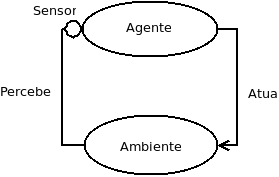
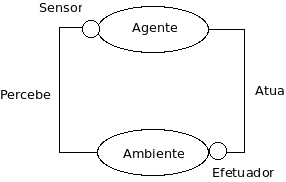
Finalizando correção do capítulo 4. Terminada todas as correções do doct.

diff --git a/latex/capitulos/capitulo2.tex b/latex/capitulos/capitulo2.tex
@@ -48,7 +48,7 @@ Este capítulo visa introduzir o conceito de sistemas multiagentes (SMA). Para t
 
 \subsection{Inteligência artificial}
 
-De acordo com~\cite{poole98} identificamos que a definição de IA pode variar em duas dimensões principais. Usando a definição de sistemas computacionais que agem racionalmente temos:
+A definição de IA pode variar em duas dimensões principais~\cite{poole98}. Usando a definição de sistemas computacionais que agem racionalmente temos:
 
 \begin{quote}
 \emph{Computational Intelligence is the study of the design of intelligent agents.}
@@ -64,7 +64,7 @@ Atualmente várias aplicações podem exigir demais de~\emph{hardwares} mais mod
 
 De acordo com~\cite{novig95}, agentes são entidades (reais ou virtuais) que funcionam de forma autônoma em um ambiente, ou seja, não necessitam de intervenção humana para realizar processamento. Esse ambiente de funcionamento do agente geralmente contém vários outros agentes e é possível a comunicação entre eles através do ambiente por meio de troca de mensagens.
 
-Em geral o funcionamento de agentes acontece de forma a perceberem o ambiente em que estão por meio de sensores, fazem análises com base nessa interação inicial e por fim podem agir sobre o ambiente de forma a modifica-lo por meio de efetuadores. A figura~\ref{fig:agente-basico} é uma ilustração do que foi dito.
+Na representação do funcionamento de agentes~\ref{fig:agente-basico}, os agentes funcionam de forma a perceber o ambiente em que estão por meio de sensores, fazem análises com base na interação inicial e por fim podem agir sobre o ambiente de forma a modifica-lo por meio de efetuadores.
 
 \begin{figure}
 	\centering
@@ -601,17 +601,17 @@ A Linguagem Unificada de Modelagem,~\emph{Unified Modeling Language} (UML) é um
 O UML é um padrão não proprietário, controlado pelo consórcio~\emph{Object Management Group}~\cite{omg20}. Seu nascimento é datado em 1997~\cite{fowler04}, surgindo a partir da união de diversas linguagens e ferramentas de surgiram na década de 80 e 90.
 A linguagem ajuda o entendimento de como o software foi projetado, como ocorre a comunicação entre seus objetos, como suas classes são organizadas, quais são os atores que são envolvidos na utilização do software, dentre outras possibilidades de representação.
 
-Em~\cite{fowler04}, é possível separar o uso do UML de três formas distintas, diferindo entre as modelagens utilizadas e o objetivo de uso. As três formas são: Rascunho, planta de software e como linguagem de programação. 
+É possível separar o uso do UML de três formas distintas~\cite{fowler04}, diferindo entre as modelagens utilizadas e o objetivo de uso. As três formas são: Rascunho, planta de software e como linguagem de programação. 
 
 A utilização como rascunho é utilizada para facilitar a comunicação entre as pessoas envolvidas no projeto, sejam desenvolvedores discutindo funcionalidades do software ou gestores explicando funcionalidades em alto nível. O objetivo neste uso é a comunicação de alguns aspectos do sistema de forma rápida, sem a necessidade de formalizar artefatos para o projeto.
 
-A utilização do UML como planta de software são documentos detalhados que são criados para documentação do software, sendo divida em duas sub-categorias: Engenharia reversa e engenharia avante. Na engenharia reversa, os diagramas são gerados a partir de uma ferramenta que faz a leitura do código fonte e gera os diagramas desejados, que são utilizados para auxiliar o leitor no entendimento do sistema. Na engenharia avante, a idéia é modelar o sistema detalhadamente antes de qualquer desenvolvimento, prevendo quais serão os módulos do sistema, bem como a sua a comunicação.
+A utilização do UML como planta de software são documentos detalhados que são criados para documentação do software, sendo divida em duas sub-categorias: Engenharia reversa e engenharia normal. Na engenharia reversa, os diagramas são gerados a partir de uma ferramenta que faz a leitura do código fonte e gera os diagramas desejados, que são utilizados para auxiliar o leitor no entendimento do sistema. Na engenharia normal, a idéia é modelar o sistema detalhadamente antes de qualquer desenvolvimento, prevendo quais serão os módulos do sistema, bem como a sua a comunicação.
 
 No uso como linguagem de programação, o UML é utilizado para geração de código executável por ferramentas avançadas de modelagem. Esse modo requer a modelagem de estado e comportamento do sistema, para fins de detalhar todo o comportamento e lógica do sistema em código.
 
 \subsubsection{Diagramas UML}
 
-O UML 2 descreve 13 tipos de diagramas que podem ser categorizados por estruturais e comportamentais. A imagem~\ref{fig:categorias-diagramas} ilustra essa categorização de diagramas.
+O UML 2.0 descreve 13 tipos de diagramas~\ref{fig:categorias-diagramas} que podem ser categorizados por estruturais e comportamentais.
 
 \begin{figure}
 	\centering
@@ -624,7 +624,7 @@ Apesar da grande quantidade diagramas envolvidos no UML, nem todos os processos 
 
 \begin{itemize}
 	\item Diagrama de Caso de uso
-	\item Diagrama de sequência
+	\item Diagrama de Sequência
 \end{itemize}
 
 \paragraph{Diagrama de Caso de Uso}
@@ -641,7 +641,7 @@ Duas definições fazem-se necessárias para o entendimento do caso de uso. A pr
 
 A segunda definição envolvida é a de cenário. Um cenário é uma sequência de interações entre os atores e o sistema. Os cenários são separados por ações de interesses de atores. Logo o caso de uso pode ser considerado como um conjunto de cenários de interações de atores com o sistema.
 
-Dessa forma, o caso de uso deve deixar claro os requisitos funcionais do sistema, bem como o seu comportamento. Existem três formas de se escrever um caso de uso, diferindo em seu nível de formalidade e formatos: Resumido, informal e completo. Este trabalho usará o nível de caso de uso completo, devido ao fato de ser estruturado e mostrar mais detalhes. Os casos de uso são estruturados de diversas formas de acordo com a literatura, sendo a mais famosa~\cite{larman08} a estrutura utilizada por Alistar Cockburn~\cite{cockburn01} e detalhada na tabela~\ref{tabela:topicos_uc}
+Dessa forma, o caso de uso deve deixar claro os requisitos funcionais do sistema, bem como o seu comportamento. Existem três formas de se escrever um caso de uso, diferindo em seu nível de formalidade e formatos: Resumido, informal e completo. Este trabalho usará o nível de caso de uso completo, devido ao fato de ser estruturado e mostrar mais detalhes. Os casos de uso são estruturados de diversas formas de acordo com a literatura, sendo a mais famosa~\cite{larman08} a estrutura utilizada por Alistar Cockburn~\cite{cockburn01} e detalhada neste trabalho.~\ref{tabela:topicos_uc}
 
 \begin{table}
 	\caption{Estruturação Detalhada de Caso de Uso}
@@ -677,7 +677,7 @@ Dessa forma, o caso de uso deve deixar claro os requisitos funcionais do sistema
 	\label{tabela:topicos_uc}
 \end{table}
 
-A diagramação do caso de uso por UML é uma forma de representação do sistema, mostrando fronteiras do sistema, comunicação e comportamento entre os atores. A figura~\ref{fig:diagrama-uml} mostra a sugestão de diagramação do caso de uso, propondo forma de representação de atores, casos de uso e atores auxiliares.
+A diagramação do caso de uso por UML é uma forma de representação do sistema, mostrando fronteiras do sistema, comunicação e comportamento entre os atores. Em~\ref{fig:diagrama-uml} é mostrado a sugestão de diagramação do caso de uso, propondo forma de representação de atores, casos de uso e atores auxiliares.
 
 \begin{figure}
 	\centering
@@ -695,7 +695,7 @@ Durante a interação do ator com o sistema, eventos de sistema são gerados e i
 
 A nomenclatura dos eventos deve sempre iniciar com um verbo, podendo ser seguida de um substantivo. Além disso, deve-se sempre expressar a nomenclatura em níveis genéricos verbais, nunca detalhando a funcionalidade do sistema.
 
-A imagem~\ref{fig:exemplo-diagrama-sequencia} ilustra a notação de diagramas de sequência com todos os pontos que foram até agora expostos. Nela, é possível identificar a interação entre um ator e uma entidade do sistema. É fácil identificar que os eventos estão ocorrendo de forma ordenada de cima para baixo.
+Na ilustração da notação de diagramas de sequência~\ref{fig:exemplo-diagrama-sequencia} é possível identificar a interação entre um ator e uma entidade do sistema. É fácil identificar que os eventos estão ocorrendo de forma ordenada de cima para baixo.
 \begin{figure}
 	\centering
 	\includegraphics[scale=0.75]{images/exemplo-diagrama-sequencia.png}

diff --git a/latex/monografia.tex b/latex/monografia.tex
@@ -79,8 +79,8 @@
 
 \title{Estudo, Definição e Implementação de ... Baseado em Modelo Multidimesional e Abordagem de Sistema Multiagente}
 
-\orientador{\prof Célia Ralha}{CIC/UnB}
-\coordenador{\prof Flávio de Barros Vidal}{CIC/UnB}
+\orientador{\prof Célia Ghedini Ralha}{CIC/UnB}
+\coordenador{\prof Alexandre Zaghetto}{CIC/UnB}
 \diamesano{12}{Março}{2013}
 
 \membrobanca{\prof Germana Nóbrega de Menezes}{CIC/UnB}
